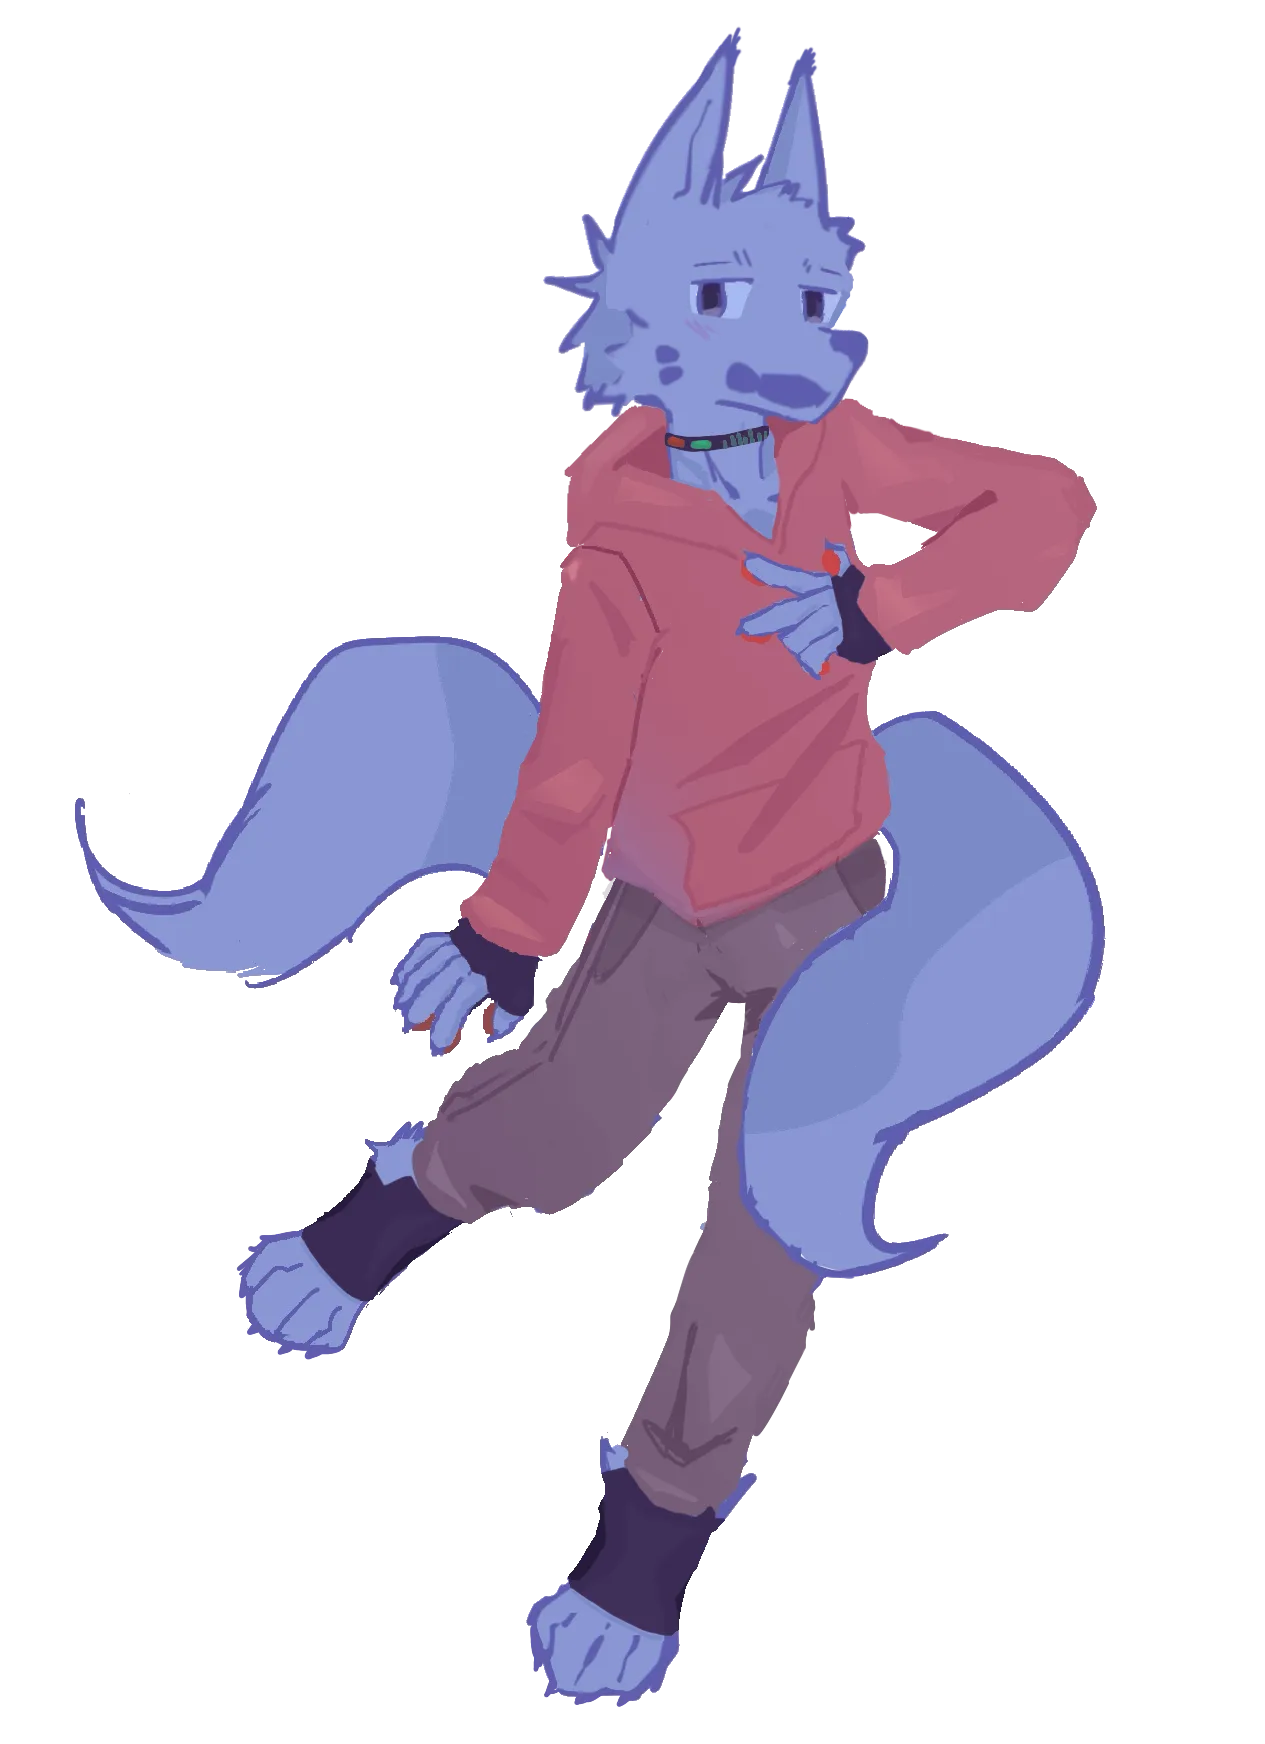
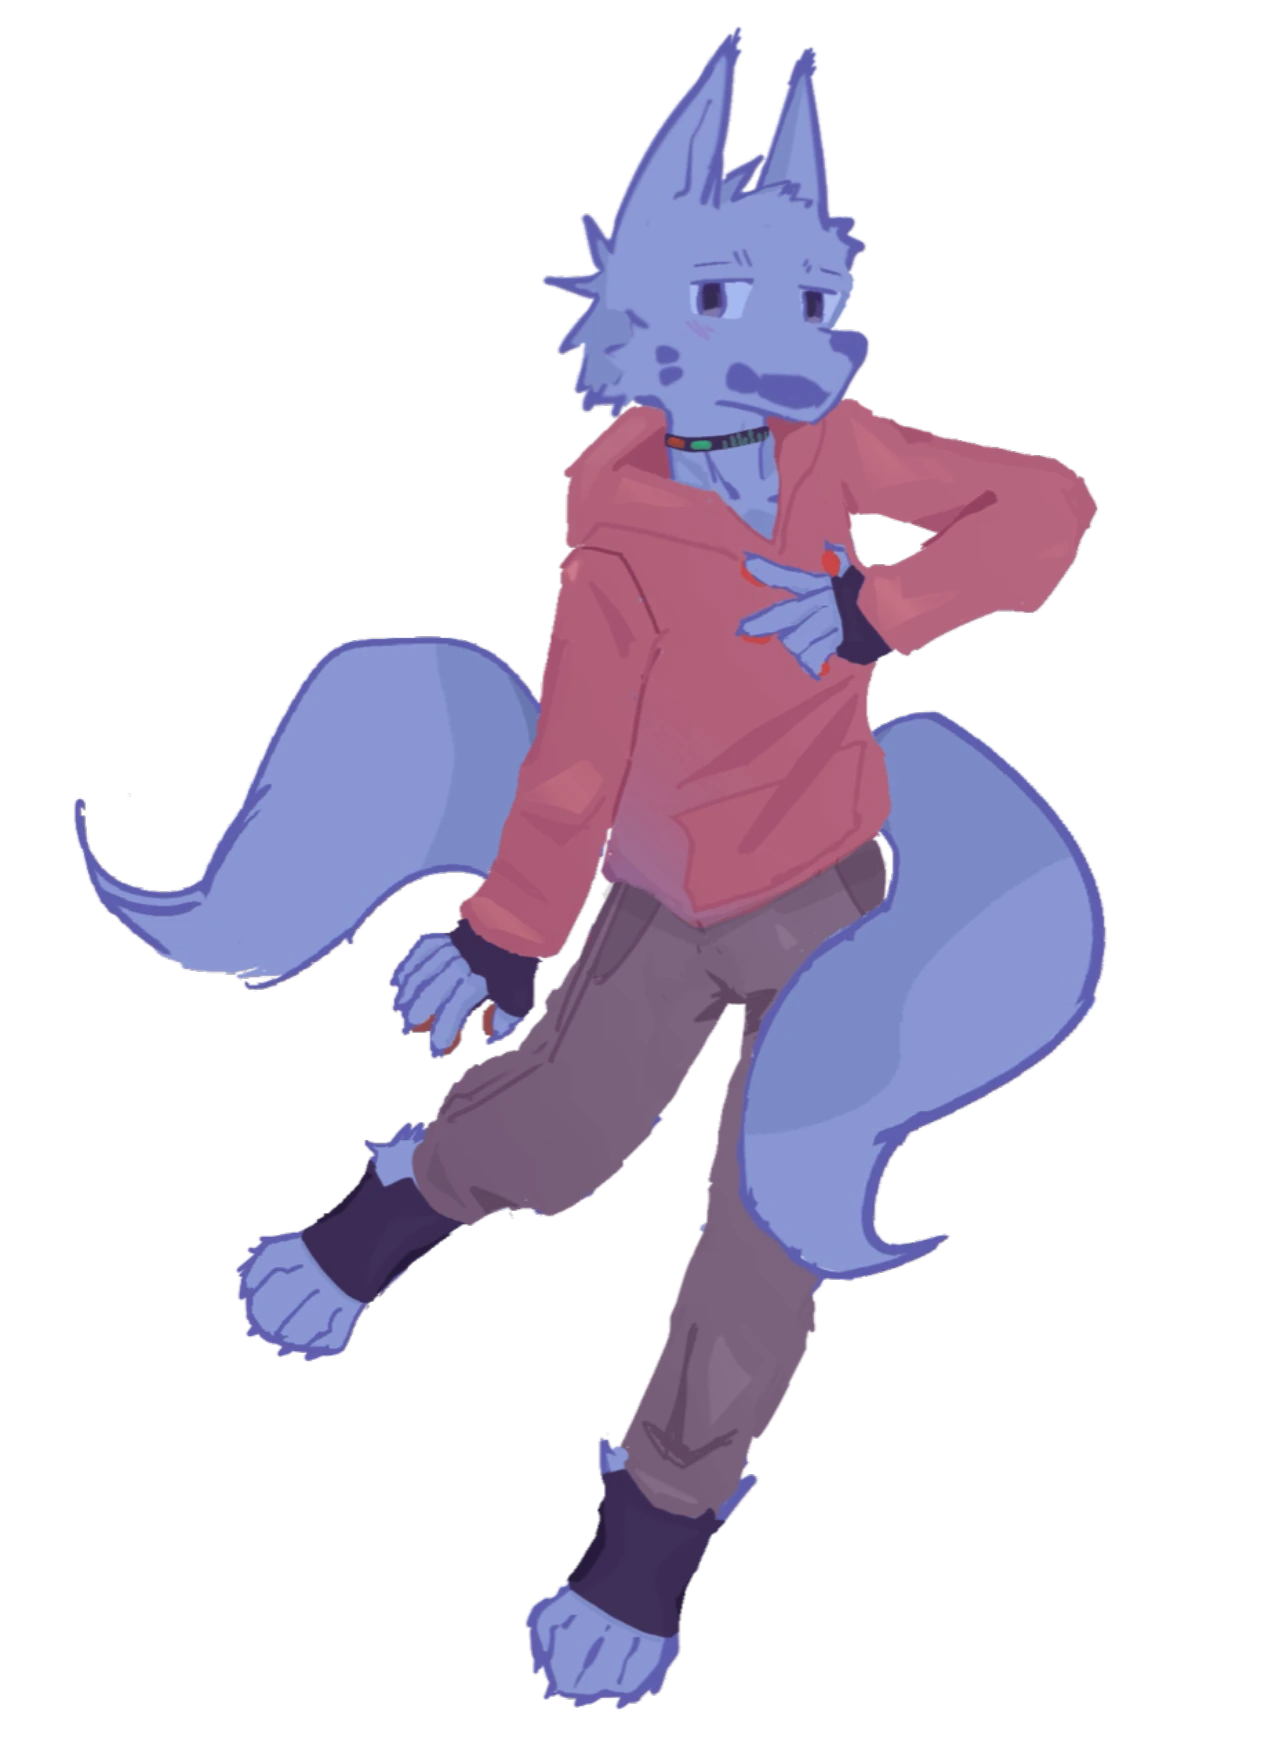
Add 640w WebP tier and re-encode character images at native resolution

Changed region(s): [[0.3391, 0.6502, 0.37, 0.7122], [0.4625, 0.4954, 0.4933, 0.5264], [0.4008, 0.3716, 0.4316, 0.4025]]

diff --git a/index-en.html b/index-en.html
@@ -202,7 +202,8 @@
           <div class="hero-main">
             <div class="hero-visual">
               <picture>
-                <source media="(max-width: 600px)" srcset="assets/images/character-320w.webp">
+                <source media="(max-width: 480px)" srcset="assets/images/character-320w.webp">
+                <source media="(max-width: 900px)" srcset="assets/images/character-640w.webp">
                 <img src="assets/images/character.webp" alt="熵尾音 咬青" class="hero-character" onerror="this.style.display='none'">
               </picture>
               <p class="hero-visual-text">插图 · 黑篙</p>

diff --git a/index-jp.html b/index-jp.html
@@ -202,7 +202,8 @@
           <div class="hero-main">
             <div class="hero-visual">
               <picture>
-                <source media="(max-width: 600px)" srcset="assets/images/character-320w.webp">
+                <source media="(max-width: 480px)" srcset="assets/images/character-320w.webp">
+                <source media="(max-width: 900px)" srcset="assets/images/character-640w.webp">
                 <img src="assets/images/character.webp" alt="熵尾音 咬青" class="hero-character" onerror="this.style.display='none'">
               </picture>
               <p class="hero-visual-text">插图 · 黑篙</p>

diff --git a/index.html b/index.html
@@ -202,7 +202,8 @@
           <div class="hero-main">
             <div class="hero-visual">
               <picture>
-                <source media="(max-width: 600px)" srcset="assets/images/character-320w.webp">
+                <source media="(max-width: 480px)" srcset="assets/images/character-320w.webp">
+                <source media="(max-width: 900px)" srcset="assets/images/character-640w.webp">
                 <img src="assets/images/character.webp" alt="熵尾音 咬青" class="hero-character" onerror="this.style.display='none'">
               </picture>
               <p class="hero-visual-text">插图 · 黑篙</p>
